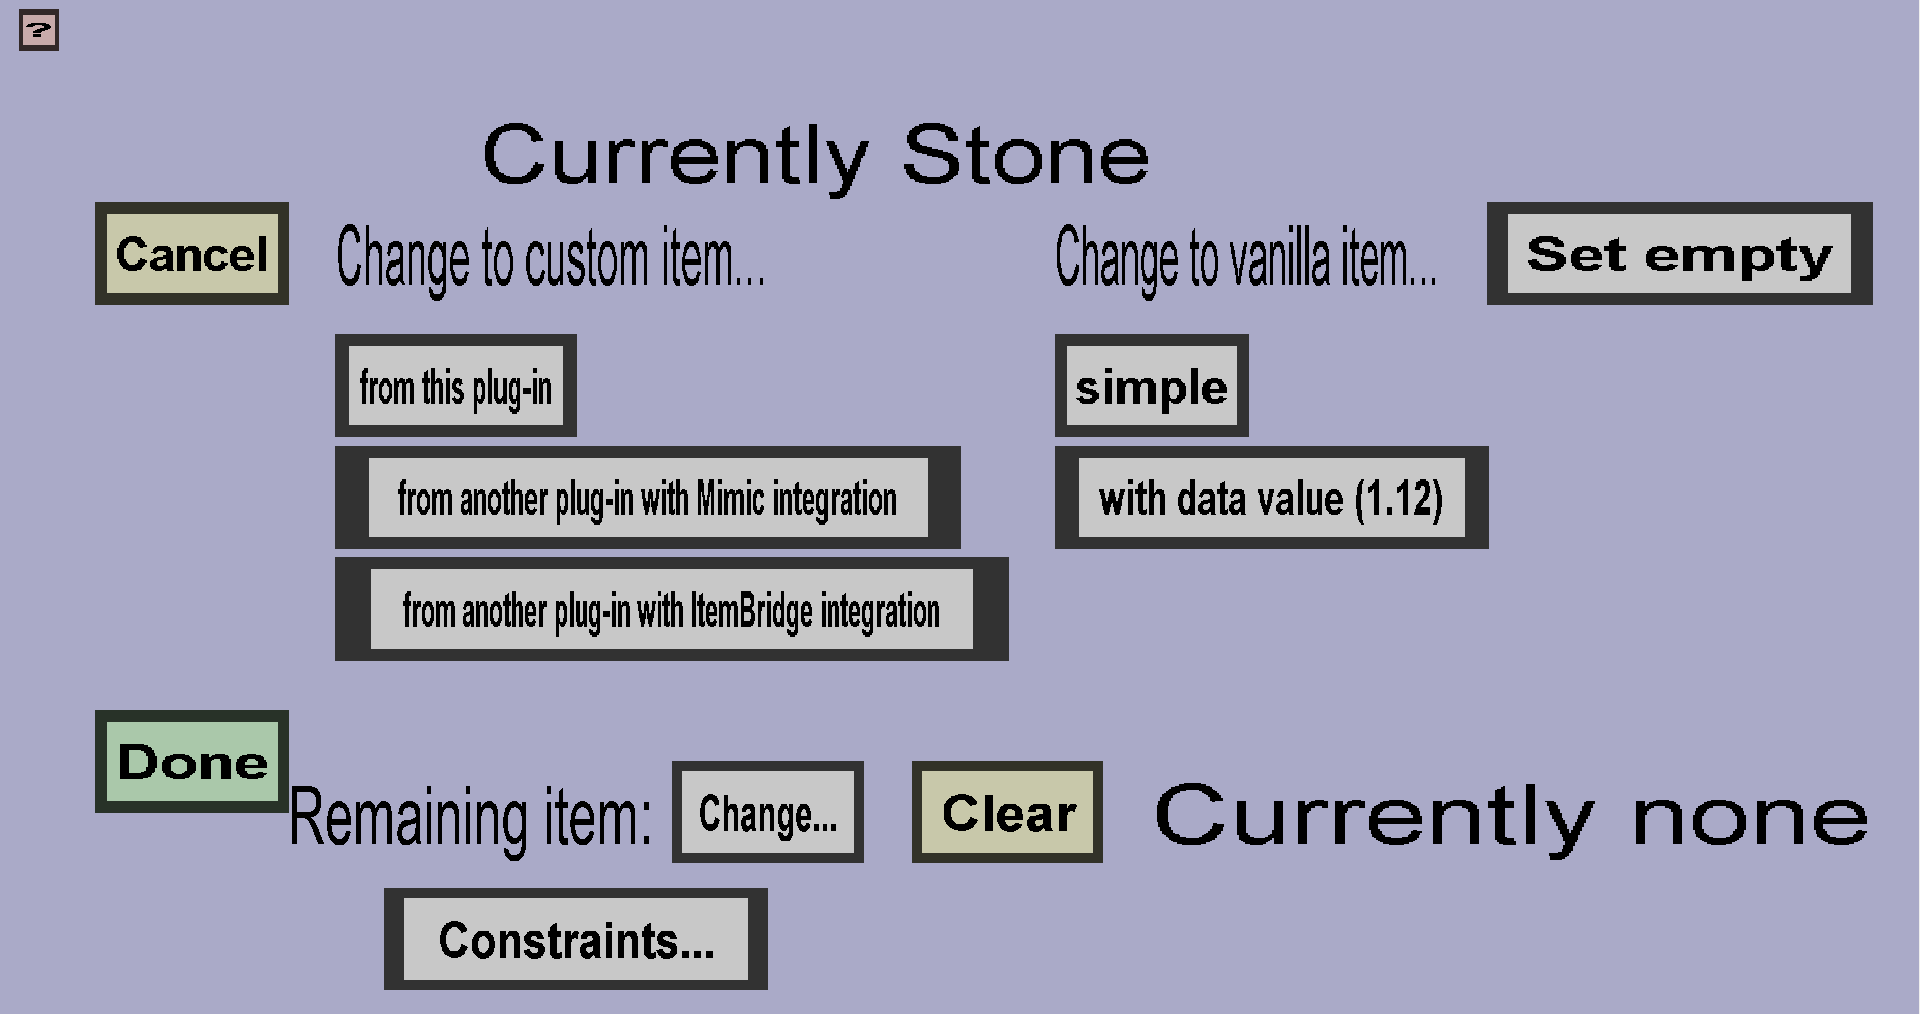
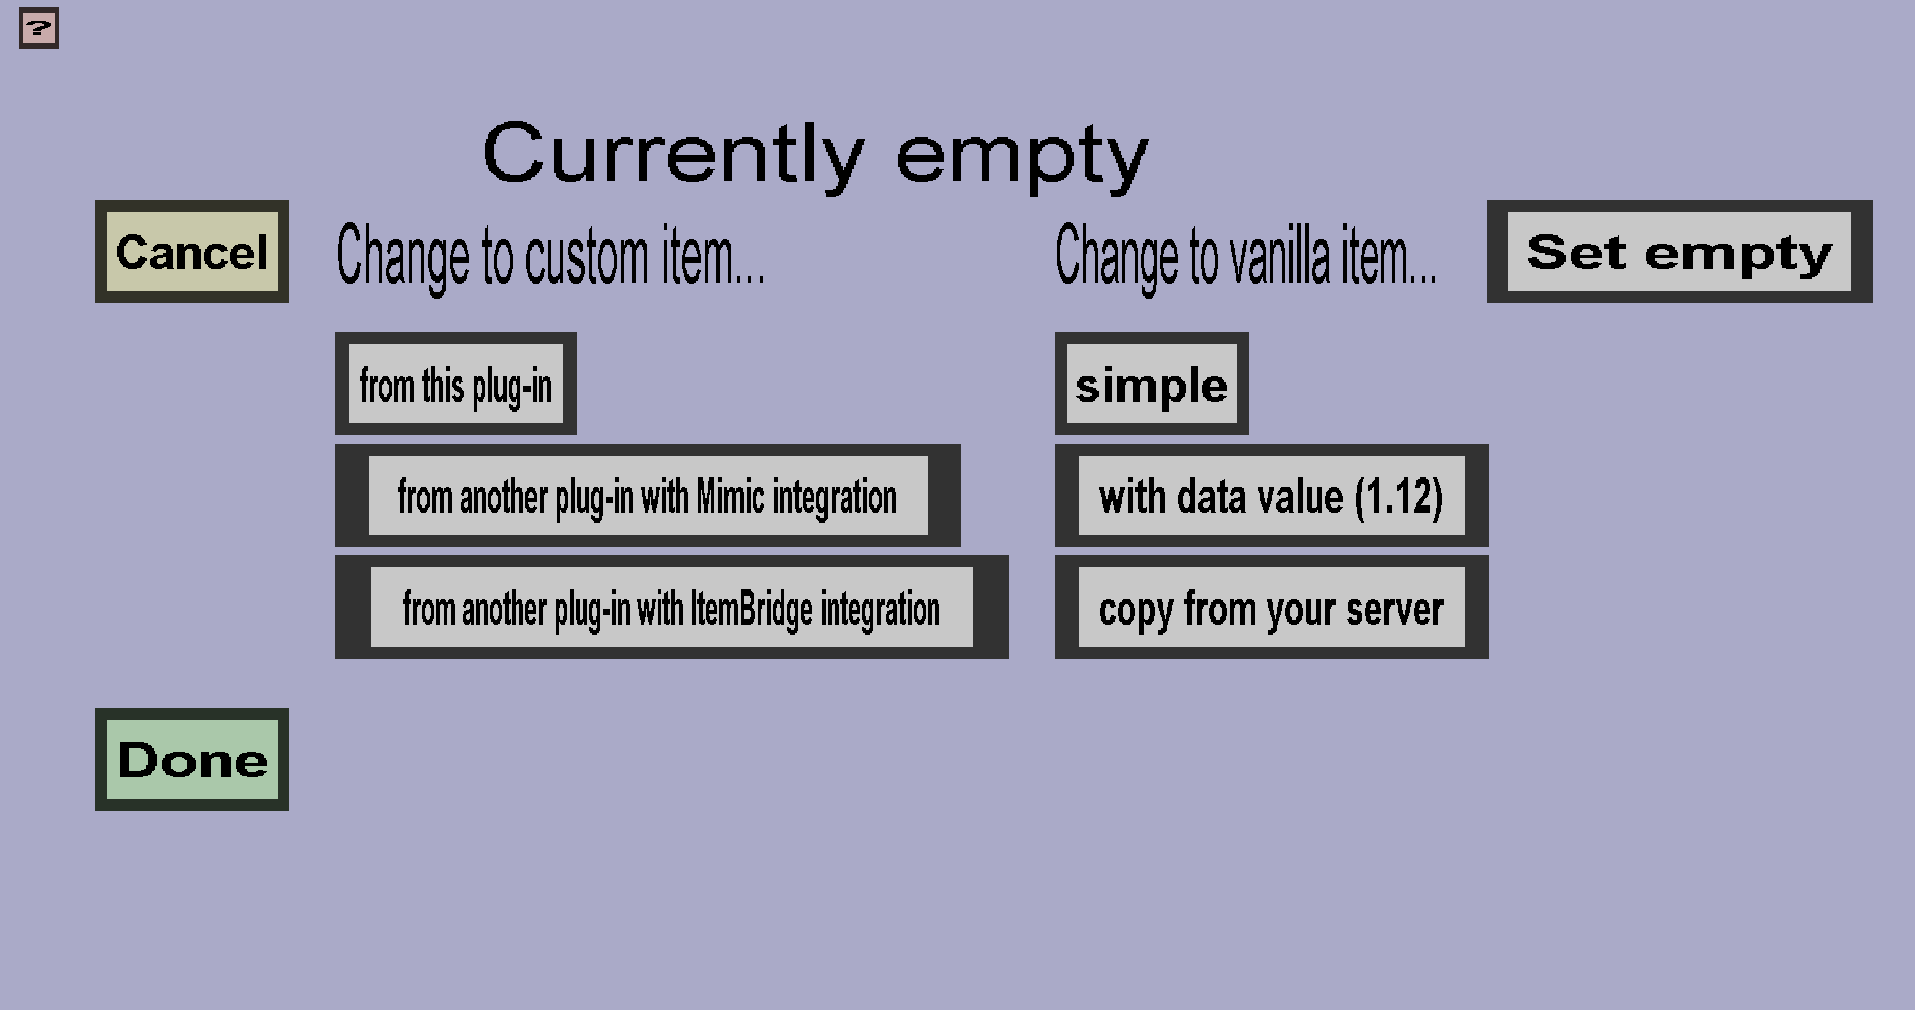
Document the new copied ingredients of KCI 13

diff --git a/custom items/editor documentation/edit menu/recipes/edit ingredient.html b/custom items/editor documentation/edit menu/recipes/edit ingredient.html
@@ -52,6 +52,18 @@
                 <i>with data value (1.12)</i>: choose an item from vanilla minecraft with a data value
                 (in minecraft 1.12 and earlier, data values were used for things like wool colors and wood types)
             </li>
+            <li>
+                <i>Copy from your server</i>: an ingredient that is copied from your server.
+                This option allows you to pick any item on your server, and only accept that item
+                (and identical) items as ingredient. For instance, you can use this for an ingredient that
+                only accepts iron swords with sharpness 3. Click the <i>copy from your server</i>
+                button for instructions on how to do this.<br>
+                <b>
+                    Note: do NOT use this on custom items from this plug-in: it may seem to work as first,
+                    but this plug-in does some hidden internal administration on custom items that can
+                    break the recipe anytime in the future.
+                </b>
+            </li>
             <li><i>Set empty</i>: the slot that corresponds to this ingredient must be empty</li>
         </ul>
         <h3>Remaining item</h3>
